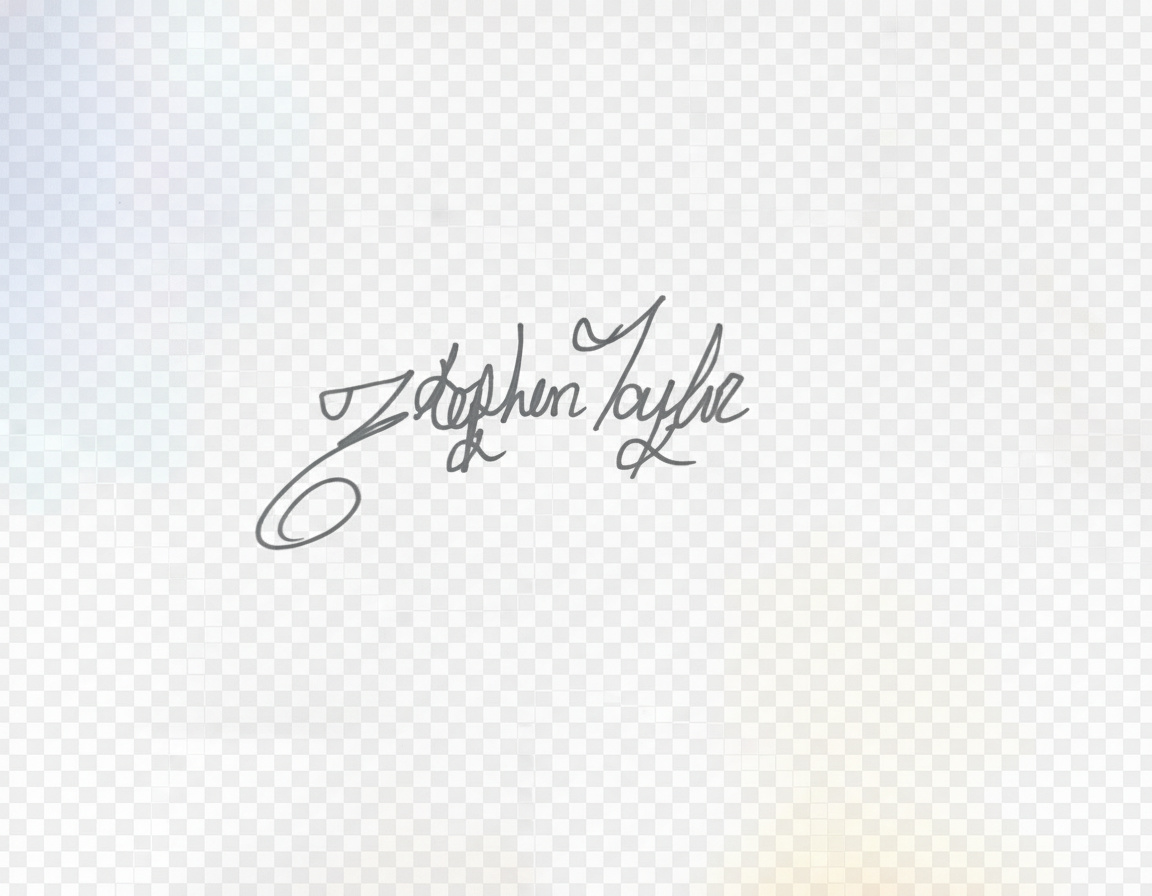
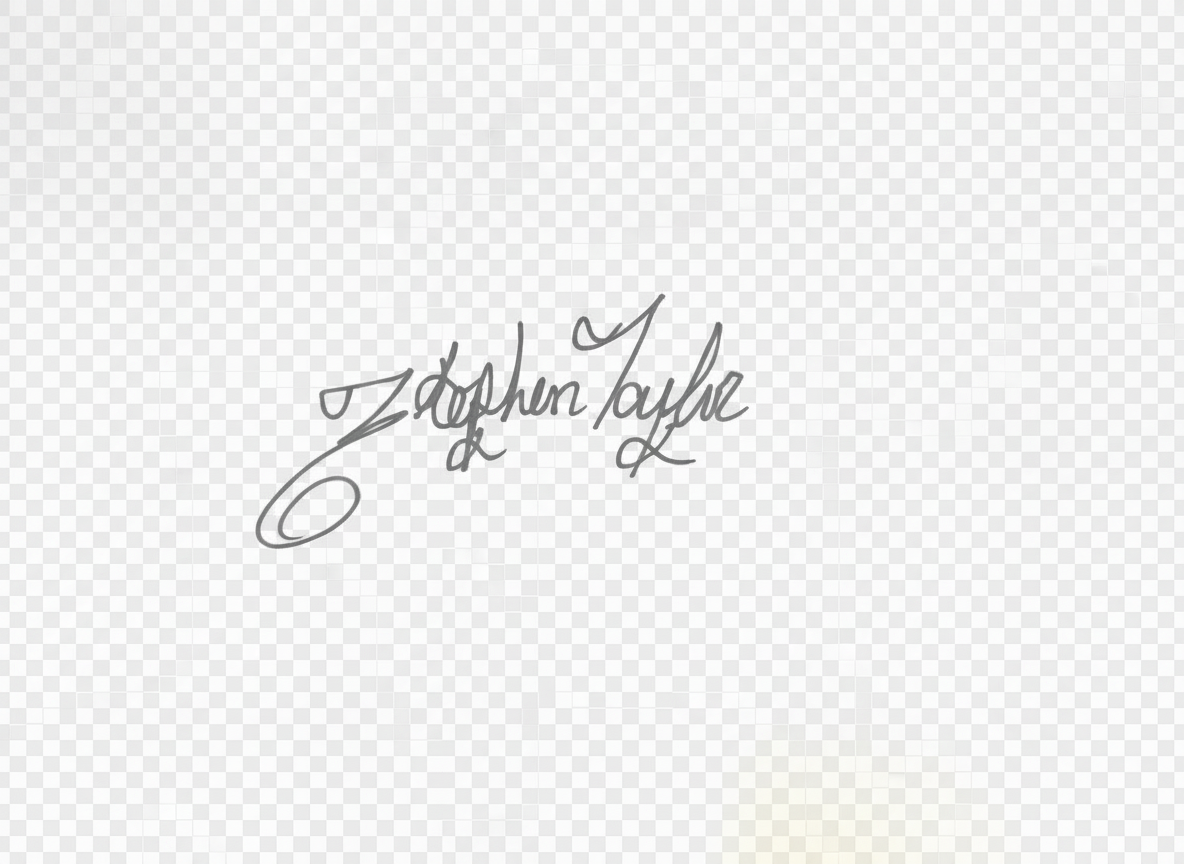
Changes

diff --git a/src/lib/signatureCleanup.ts b/src/lib/signatureCleanup.ts
@@ -1,0 +1,116 @@
+export type SignatureCleanupOptions = {
+  /** Pixels brighter than this are considered "paper" and become fully transparent. */
+  whiteThreshold?: number;
+  /** Extra padding (in px) around the detected ink bounds when cropping. */
+  cropPadding?: number;
+};
+
+/**
+ * Turns a scanned signature on white paper into a transparent PNG data URL.
+ * - Removes near-white pixels (paper)
+ * - Converts remaining ink to black with alpha based on darkness
+ * - Crops tightly around the ink
+ */
+export async function cleanupSignatureToTransparentPng(
+  src: string,
+  opts: SignatureCleanupOptions = {}
+): Promise<string> {
+  const whiteThreshold = opts.whiteThreshold ?? 245;
+  const cropPadding = opts.cropPadding ?? 8;
+
+  const img = await loadImage(src);
+
+  const canvas = document.createElement("canvas");
+  canvas.width = img.naturalWidth || img.width;
+  canvas.height = img.naturalHeight || img.height;
+
+  const ctx = canvas.getContext("2d");
+  if (!ctx) throw new Error("Canvas 2D context not available");
+
+  ctx.drawImage(img, 0, 0);
+
+  const w = canvas.width;
+  const h = canvas.height;
+  const imageData = ctx.getImageData(0, 0, w, h);
+  const data = imageData.data;
+
+  let minX = w,
+    minY = h,
+    maxX = 0,
+    maxY = 0;
+
+  // Pass 1: remove paper + map ink to black with alpha based on darkness.
+  for (let y = 0; y < h; y++) {
+    for (let x = 0; x < w; x++) {
+      const i = (y * w + x) * 4;
+      const r = data[i];
+      const g = data[i + 1];
+      const b = data[i + 2];
+      const a = data[i + 3];
+
+      if (a === 0) continue;
+
+      // perceived brightness (simple average is fine here)
+      const v = (r + g + b) / 3;
+
+      // Convert to alpha: darker pixels => higher alpha.
+      // v >= whiteThreshold => alpha 0 (fully transparent)
+      const alpha = Math.max(0, Math.min(255, (whiteThreshold - v) * 2));
+
+      if (alpha <= 1) {
+        data[i + 3] = 0;
+        continue;
+      }
+
+      // Make ink black (crisp) while preserving antialias via alpha.
+      data[i] = 0;
+      data[i + 1] = 0;
+      data[i + 2] = 0;
+      data[i + 3] = alpha;
+
+      if (alpha > 10) {
+        if (x < minX) minX = x;
+        if (y < minY) minY = y;
+        if (x > maxX) maxX = x;
+        if (y > maxY) maxY = y;
+      }
+    }
+  }
+
+  ctx.putImageData(imageData, 0, 0);
+
+  // If we failed to detect bounds, fall back to full canvas.
+  if (minX >= maxX || minY >= maxY) {
+    return canvas.toDataURL("image/png");
+  }
+
+  // Crop tightly around ink bounds.
+  const pad = cropPadding;
+  const cropX = Math.max(0, minX - pad);
+  const cropY = Math.max(0, minY - pad);
+  const cropW = Math.min(w - cropX, maxX - minX + pad * 2);
+  const cropH = Math.min(h - cropY, maxY - minY + pad * 2);
+
+  const out = document.createElement("canvas");
+  out.width = cropW;
+  out.height = cropH;
+
+  const outCtx = out.getContext("2d");
+  if (!outCtx) throw new Error("Canvas 2D context not available (output)");
+
+  outCtx.clearRect(0, 0, cropW, cropH);
+  outCtx.drawImage(canvas, cropX, cropY, cropW, cropH, 0, 0, cropW, cropH);
+
+  return out.toDataURL("image/png");
+}
+
+function loadImage(src: string): Promise<HTMLImageElement> {
+  return new Promise((resolve, reject) => {
+    const img = new Image();
+    // same-origin for bundled assets; safe even if not required
+    img.crossOrigin = "anonymous";
+    img.onload = () => resolve(img);
+    img.onerror = () => reject(new Error(`Failed to load image: ${src}`));
+    img.src = src;
+  });
+}

diff --git a/src/components/Certificate.tsx b/src/components/Certificate.tsx
@@ -1,6 +1,9 @@
+import { useEffect, useState } from "react";
+
 import level2CertificateTemplate from "@/assets/level2-certificate-template.jpg";
 import pepperSprayCertificateTemplate from "@/assets/pepper-spray-certificate-template.jpg";
 import instructorSignature from "@/assets/stephen-taylor-signature-transparent.png";
+import { cleanupSignatureToTransparentPng } from "@/lib/signatureCleanup";
 
 interface CertificateProps {
   userName?: string;
@@ -61,6 +64,26 @@ const Certificate = ({ userName, registrationNumber, courseCompletionDate, idTyp
   const isLevel2 = courseType === 'level2';
 
   const nameParts = splitName();
+
+  const [signatureSrc, setSignatureSrc] = useState<string>(instructorSignature);
+
+  useEffect(() => {
+    let cancelled = false;
+    cleanupSignatureToTransparentPng(instructorSignature, {
+      whiteThreshold: 248,
+      cropPadding: 10,
+    })
+      .then((dataUrl) => {
+        if (!cancelled) setSignatureSrc(dataUrl);
+      })
+      .catch(() => {
+        // If cleanup fails for any reason, keep the original asset.
+      });
+
+    return () => {
+      cancelled = true;
+    };
+  }, []);
 
   return (
     <div
@@ -201,7 +224,7 @@ const Certificate = ({ userName, registrationNumber, courseCompletionDate, idTyp
             left: exportMode ? '15%' : '15%'
           }}>
             <img 
-              src={instructorSignature} 
+              src={signatureSrc} 
               alt="Instructor Signature" 
               className={`${exportMode ? 'h-[60px]' : 'h-[30px]'} w-auto object-contain`}
             />
